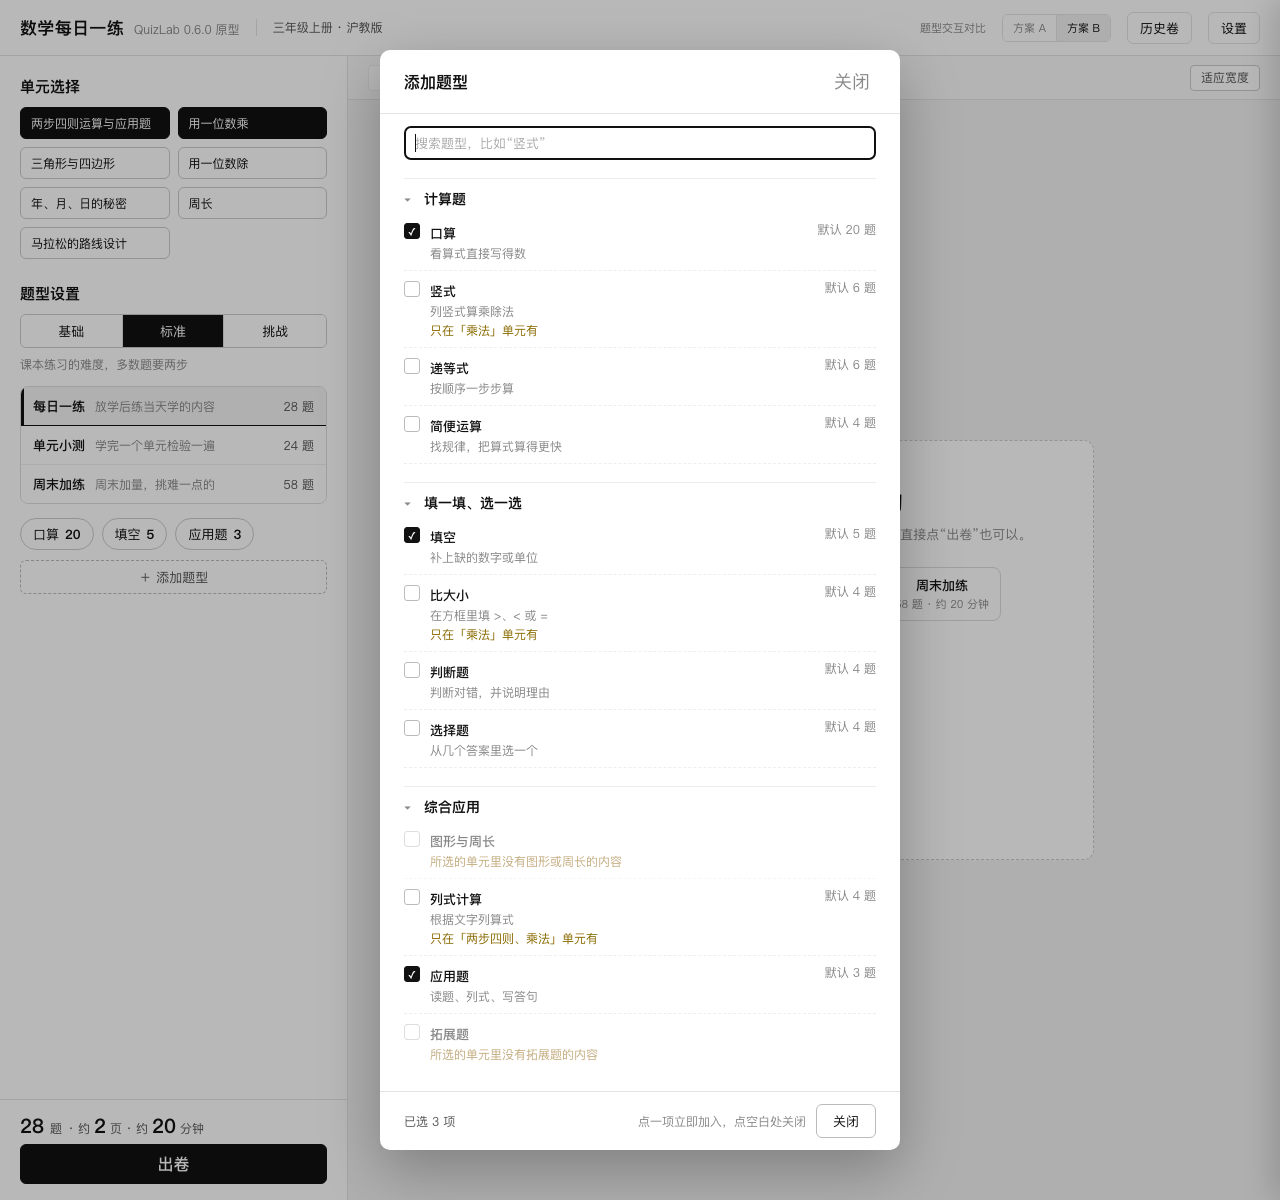
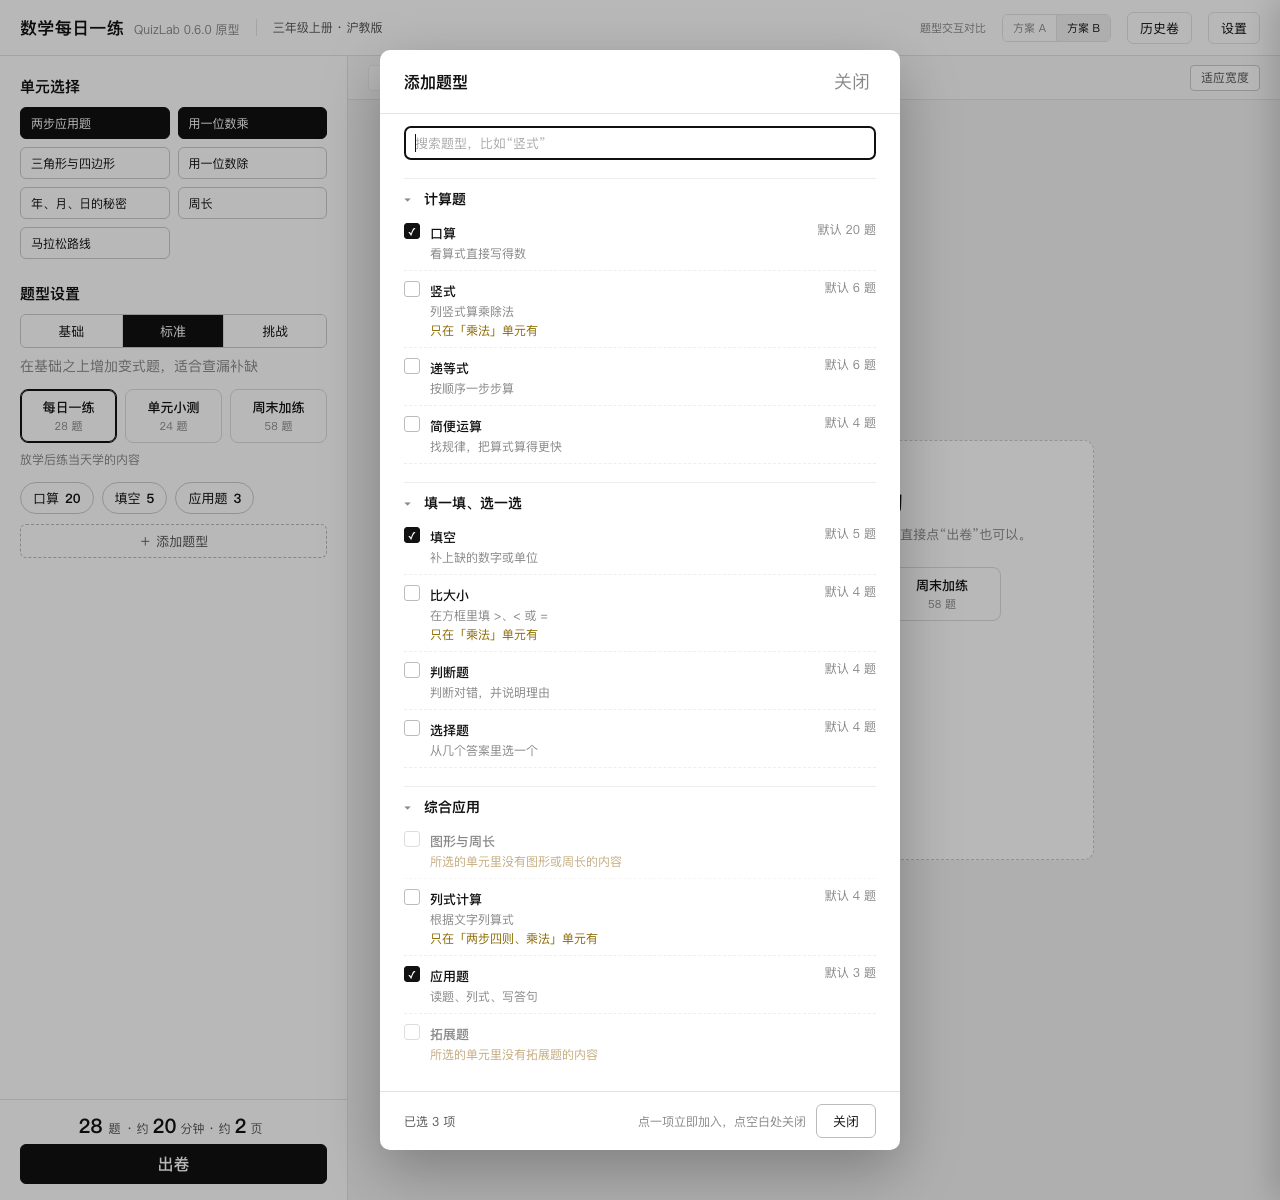
docs: 0.6.0 原型移除题型 × 按钮并修复全局文字折行
按钮标签统一 nowrap 防挤压，窄屏收起次要信息，单元改用短显示名。

diff --git a/docs/ui-prototype-0.6.0/index.html b/docs/ui-prototype-0.6.0/index.html
@@ -26,6 +26,9 @@
         -webkit-font-smoothing: antialiased;
       }
       button, input, select { font-family: inherit; color: inherit; }
+      button, .chip, .tool, .ghost, .type-chip, .preset, .seg button, .mode-switch button {
+        white-space: nowrap; flex-shrink: 0;
+      }
       button { cursor: pointer; }
 
       .app { height: 100vh; display: grid; grid-template-rows: 56px 1fr; grid-template-columns: 348px 1fr; }
@@ -33,14 +36,14 @@
       /* ---------- 顶部 ---------- */
       .top {
         grid-column: 1 / -1;
-        display: flex; align-items: center; gap: 16px;
-        padding: 0 20px; background: var(--bg); border-bottom: 1px solid var(--line);
+        display: flex; flex-wrap: nowrap; align-items: center; gap: 16px;
+        padding: 0 20px; background: var(--bg); border-bottom: 1px solid var(--line); white-space: nowrap;
       }
-      .brand { display: flex; align-items: baseline; gap: 10px; }
-      .brand b { font-size: 17px; letter-spacing: .02em; }
-      .brand span { font-size: 12px; color: var(--ink-3); }
-      .grade { font-size: 12px; color: var(--ink-2); padding-left: 16px; border-left: 1px solid var(--line); }
-      .top .spacer { flex: 1; }
+      .brand { display: flex; align-items: baseline; gap: 10px; flex: none; white-space: nowrap; }
+      .brand b { font-size: 17px; letter-spacing: .02em; white-space: nowrap; }
+      .brand span { font-size: 12px; color: var(--ink-3); white-space: nowrap; }
+      .grade { font-size: 12px; color: var(--ink-2); padding-left: 16px; border-left: 1px solid var(--line); flex: none; white-space: nowrap; }
+      .top .spacer { flex: 1; min-width: 0; }
       .ghost {
         height: 32px; padding: 0 12px; font-size: 13px; border: 1px solid var(--line);
         background: #fff; border-radius: 6px; color: var(--ink);
@@ -59,7 +62,7 @@
       .chips { display: grid; grid-template-columns: 1fr 1fr; gap: 8px; }
       .chip {
         height: 32px; padding: 0 10px; font-size: 12px; border: 1px solid #ccc; border-radius: 6px;
-        background: #fff; color: var(--ink); text-align: left; overflow: hidden; text-overflow: ellipsis; white-space: nowrap;
+        background: #fff; color: var(--ink); text-align: left;
       }
       .chip[aria-pressed='true'] { background: var(--ink); border-color: var(--ink); color: #fff; }
       .chip:hover { border-color: var(--ink); }
@@ -126,8 +129,6 @@
       }
       .add-main:hover { border-color: var(--ink); color: var(--ink); }
       .type-empty { padding: 8px 0 4px; font-size: 12px; color: var(--ink-3); }
-      .remove { width: 24px; height: 24px; border: 0; border-radius: 4px; background: none; color: #999; font-size: 15px; line-height: 1; }
-      .remove:hover { background: #f2f2f2; color: var(--err); }
       .type-chips { display: flex; flex-wrap: wrap; gap: 8px; }
       .type-chip {
         display: inline-flex; align-items: center; gap: 6px; height: 32px; padding: 0 12px;
@@ -191,10 +192,11 @@
       /* ---------- 右栏 ---------- */
       .main { display: flex; flex-direction: column; min-width: 0; min-height: 0; }
       .preview-bar {
-        flex: none; height: 44px; display: flex; align-items: center; gap: 10px;
+        flex: none; height: 44px; display: flex; flex-wrap: nowrap; align-items: center; gap: 10px;
         padding: 0 20px; font-size: 12px; color: var(--ink-2); background: #fafafa; border-bottom: 1px solid var(--line);
       }
-      .preview-bar .spacer { flex: 1; }
+      .preview-bar .spacer { flex: 1; min-width: 0; }
+      #pageLabel { white-space: nowrap; flex: none; }
       .tool { height: 26px; padding: 0 10px; font-size: 12px; border: 1px solid #ccc; border-radius: 4px; background: #fff; }
       .tool:disabled { color: #bbb; border-color: #eee; cursor: default; }
       .stage { flex: 1; overflow: auto; padding: 24px; display: flex; align-items: flex-start; justify-content: center; }
@@ -219,7 +221,7 @@
       .figure b { display: block; font-size: 24px; font-weight: 600; line-height: 1.1; }
       .figure small { font-size: 12px; color: var(--ink-3); }
       .rc-side { margin-left: auto; display: flex; flex-direction: column; align-items: flex-end; justify-content: center; gap: 6px; }
-      .path { font-size: 12px; color: var(--ink-3); max-width: 320px; overflow: hidden; text-overflow: ellipsis; white-space: nowrap; }
+      .path { font-size: 12px; color: var(--ink-3); white-space: nowrap; }
       .row-actions { display: flex; gap: 8px; }
       .secondary {
         height: 34px; padding: 0 16px; font-size: 13px; border: 1px solid #bbb; border-radius: 6px; background: #fff;
@@ -306,6 +308,10 @@
       }
       .toast.show { opacity: 1; transform: translateX(-50%) translateY(0); }
 
+      @media (max-width: 1120px) {
+        .brand span, .grade, .top .readonly { display: none; }
+        .top { gap: 10px; padding: 0 14px; }
+      }
       @media (max-width: 1040px) {
         .app { grid-template-columns: 320px 1fr; }
         .figures { gap: 16px; }
@@ -479,6 +485,10 @@
         '两步四则运算与应用题', '用一位数乘', '三角形与四边形',
         '用一位数除', '年、月、日的秘密', '周长', '马拉松的路线设计',
       ]
+      const UNIT_LABEL = {
+        '两步四则运算与应用题': '两步应用题',
+        '马拉松的路线设计': '马拉松路线',
+      }
 
       const TYPES = [
         { id: 'kousuan', group: '计算题', label: '口算', desc: '看算式直接写得数', def: 20, available: 120, cost: 0.02 },
@@ -594,7 +604,8 @@
         UNITS.forEach((name) => {
           const b = document.createElement('button')
           b.className = 'chip'
-          b.textContent = name
+          b.textContent = UNIT_LABEL[name] || name
+          b.title = name
           b.setAttribute('aria-pressed', state.units.has(name) ? 'true' : 'false')
           b.onclick = () => {
             if (state.units.has(name)) state.units.delete(name)
@@ -649,16 +660,6 @@
         return { ok: true, note: '' }
       }
 
-      function removeType(id) {
-        state.counts[id] = 0
-        state.added.delete(id)
-        if (state.adjustId === id) state.adjustId = null
-        markCustom()
-        state.built = false
-        state.result = null
-        render()
-      }
-
       function selectedRow(t) {
         const wrap = document.createElement('div')
         wrap.className = 'type-wrap'
@@ -669,12 +670,7 @@
         name.textContent = t.label
         const spacer = document.createElement('span')
         spacer.className = 'spacer'
-        const rm = document.createElement('button')
-        rm.className = 'remove'
-        rm.textContent = '×'
-        rm.title = `移除${t.label}`
-        rm.onclick = () => removeType(t.id)
-        row.append(name, spacer, stepper(t.id), rm)
+        row.append(name, spacer, stepper(t.id))
         wrap.appendChild(row)
         if (state.counts[t.id] > t.available) {
           const hint = document.createElement('div')
@@ -735,14 +731,7 @@
             box.className = 'chip-adjust'
             const label = document.createElement('span')
             label.textContent = `「${t.label}」每份`
-            const spacer = document.createElement('span')
-            spacer.className = 'spacer'
-            const rm = document.createElement('button')
-            rm.className = 'remove'
-            rm.textContent = '×'
-            rm.title = `移除${t.label}`
-            rm.onclick = () => removeType(t.id)
-            box.append(label, stepper(t.id), spacer, rm)
+            box.append(label, stepper(t.id))
             typesEl.appendChild(box)
           }
         }
